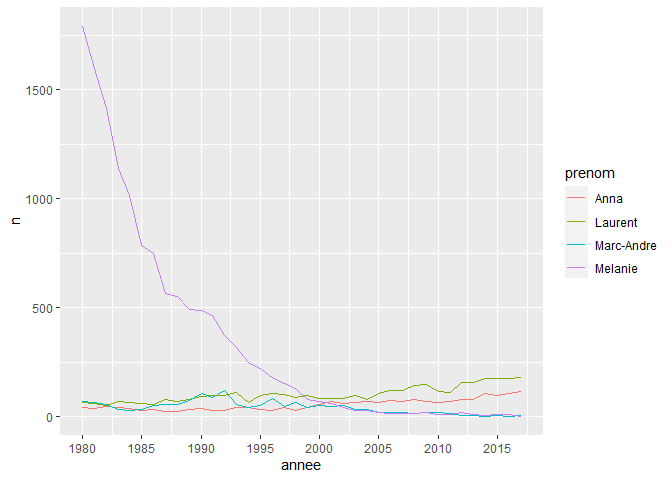
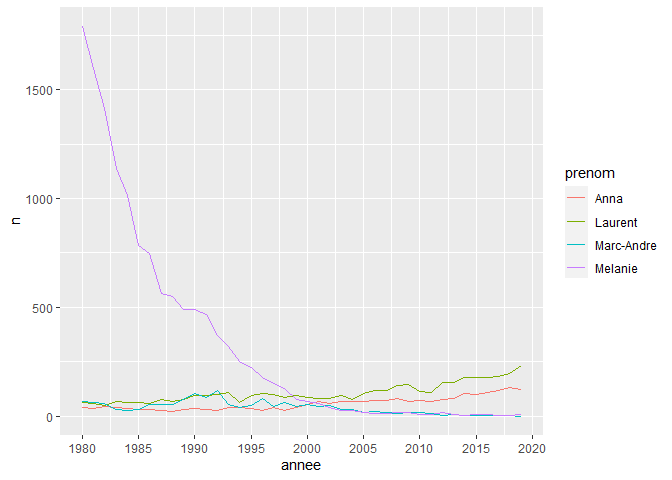
Problem with .Renviron

diff --git a/README.md b/README.md
@@ -24,16 +24,15 @@ Voici la répartition des quatre prénoms des membres de ma famille de
 1980 à 2019.
 
 ``` r
-library(dplyr)
-#> 
-#> Attaching package: 'dplyr'
-#> The following objects are masked from 'package:stats':
-#> 
-#>     filter, lag
-#> The following objects are masked from 'package:base':
-#> 
-#>     intersect, setdiff, setequal, union
-library(ggplot2)
+library(tidyverse)
+#> -- Attaching packages -------------------------------------------------------------------------------- tidyverse 1.3.0 --
+#> v ggplot2 3.3.2     v purrr   0.3.4
+#> v tibble  3.0.3     v dplyr   1.0.1
+#> v tidyr   1.1.1     v stringr 1.4.0
+#> v readr   1.3.1     v forcats 0.5.0
+#> -- Conflicts ----------------------------------------------------------------------------------- tidyverse_conflicts() --
+#> x dplyr::filter() masks stats::filter()
+#> x dplyr::lag()    masks stats::lag()
 library(prenoms)
 ```
 
@@ -62,13 +61,18 @@ ggplot(data = famille, aes(x = annee, y = n, color = prenom))+
 Les 5 prénoms féminins les plus populaires en 2019.
 
 ``` r
-library(dplyr)
-
 prenoms %>%
   filter(annee == 2019 & sexe == "F") %>%
   select(annee, sexe, prenom, n) %>%
   arrange(desc(n)) %>%
   head(5)
-#> # A tibble: 0 x 4
-#> # ... with 4 variables: annee <int>, sexe <chr>, prenom <chr>, n <int>
+#> # A tibble: 5 x 4
+#> # Groups:   annee, sexe [1]
+#>   annee sexe  prenom        n
+#>   <int> <chr> <chr>     <int>
+#> 1  2019 F     Olivia      549
+#> 2  2019 F     Emma        517
+#> 3  2019 F     Alice       513
+#> 4  2019 F     Charlie     499
+#> 5  2019 F     Charlotte   497
 ```
